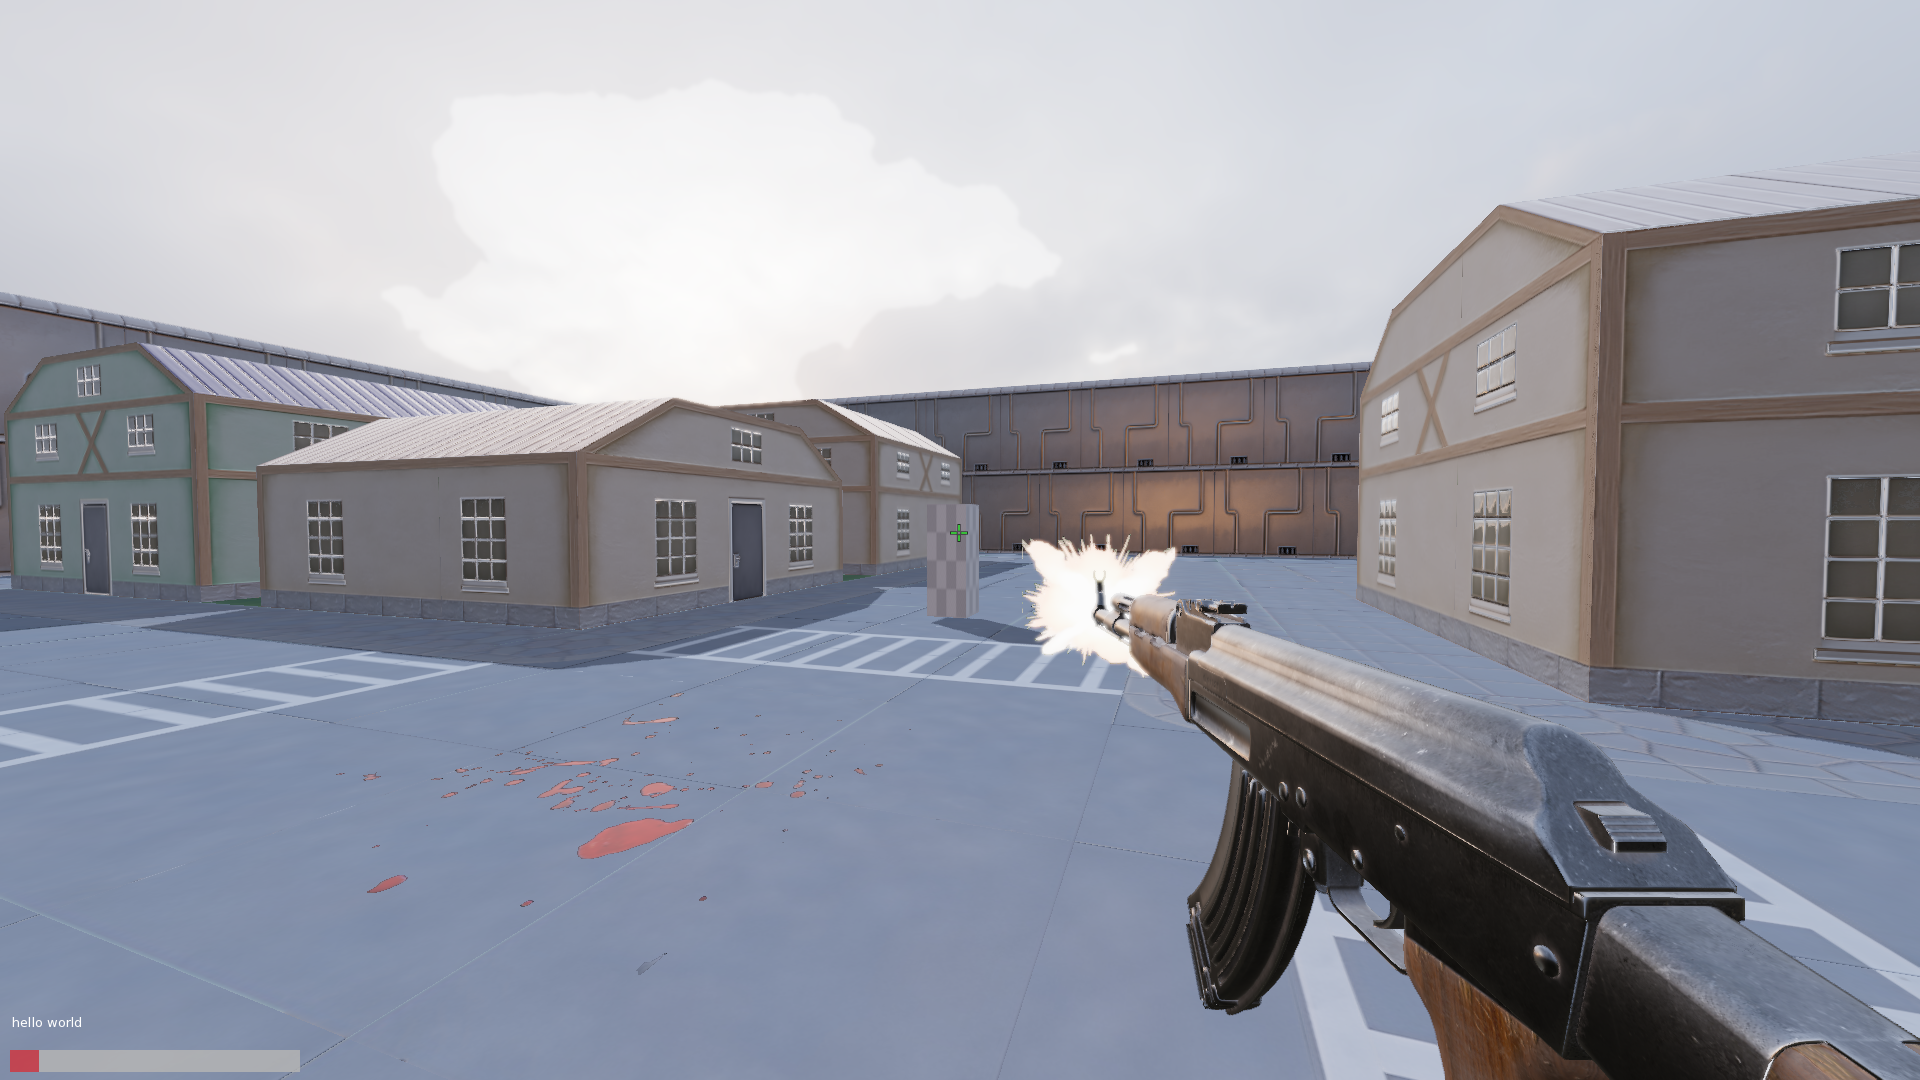
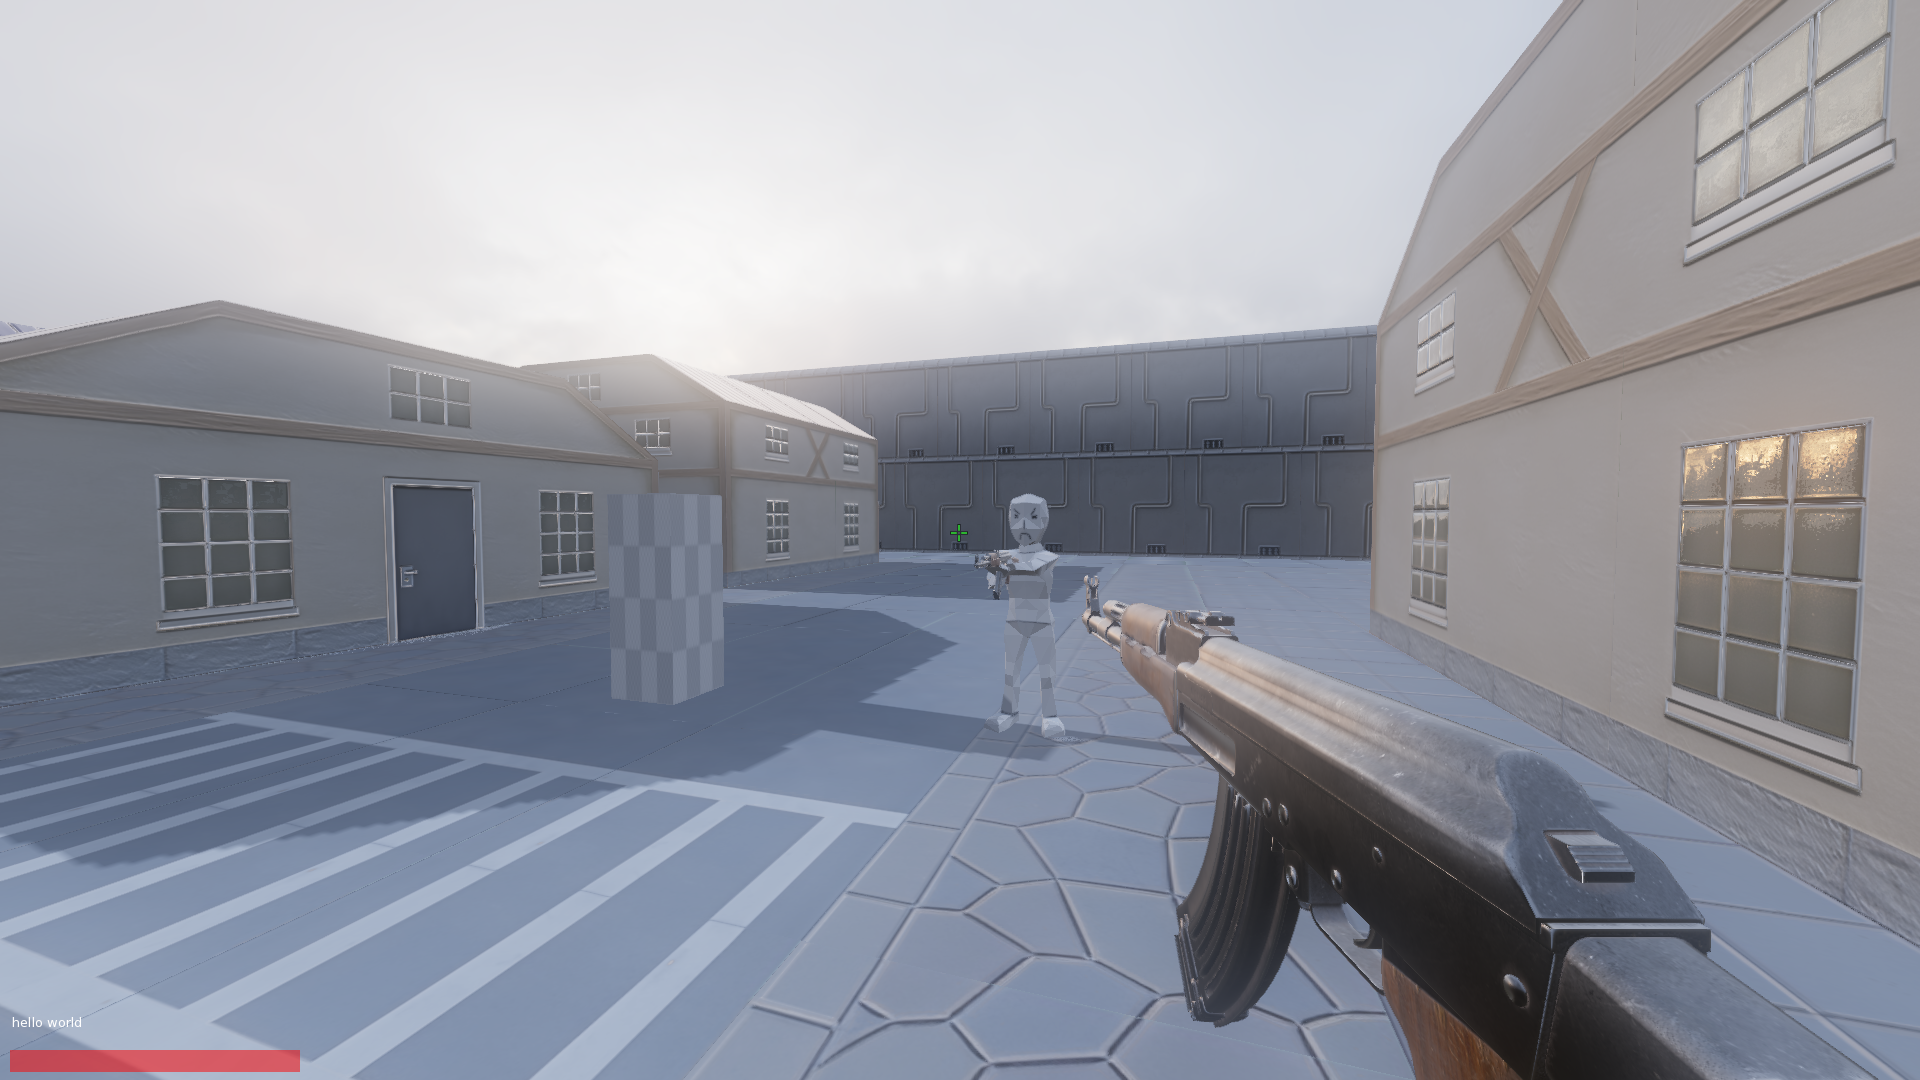
New screenshot and README

diff --git a/README.md b/README.md
@@ -5,6 +5,8 @@ A multiplayer shooter made with 3Dev. (In development)
 - Weapon inspection with F key!
 - Working multiplayer!
 - Cool graphics!
+- Blood!
+- Metal pipe falling sound effect!
 - AMOGUS!
 ## Screenshot
 ![](./screenshot.png)  
